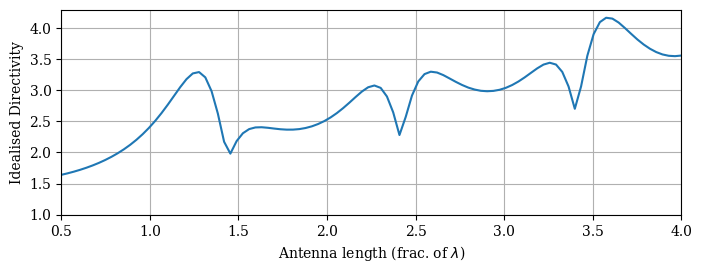
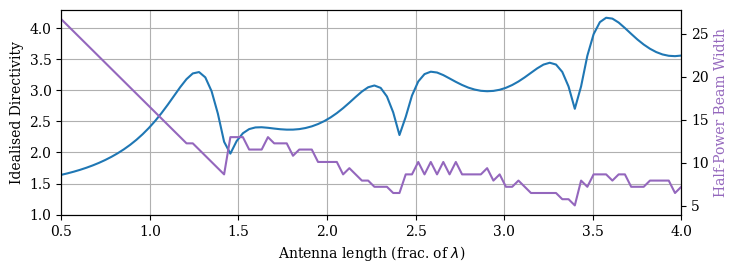
n

diff --git a/5th Year/PHYS3051/Lab Reports/Antenna/Analysis.py b/5th Year/PHYS3051/Lab Reports/Antenna/Analysis.py
@@ -267,6 +267,7 @@ fig.savefig("predictionMap.png", bbox_inches='tight')
 
 test_lengths = np.linspace(wavelen / 2, 4 * wavelen, 100)
 test_directs = np.zeros(len(test_lengths))
+test_HPBW = np.zeros(len(test_lengths))
 for j, length in enumerate(test_lengths):
     pred = np.zeros(len(test_angles))
     for i, angle in enumerate(test_angles):
@@ -276,11 +277,33 @@ for j, length in enumerate(test_lengths):
     pred = abs(pred)
     
     test_directs[j] = one_directivity(pred / max(pred), test_angles)
+    
+    pred_a = 20 * np.log(pred)
+    max_val = max(pred_a)
+    max_ind = np.argwhere(pred_a == max_val)[0][0]
+    
+    try:
+        a = 0
+        currval = max_val
+        while currval >= max_val - 3:
+            currval = pred_a[max_ind + a]
+            a += 1
+    except IndexError:
+        a = 0
+        currval = max_val
+        while currval >= max_val - 3:
+            currval = pred_a[max_ind + a - 1]
+            a += -1
+    
+    test_HPBW[j] = abs(test_angles[max_ind] - test_angles[max_ind + a])
 
 fig, ax = plt.subplots(figsize=(fs, fs/3))
+ax2 = ax.twinx()
 ax.plot(test_lengths / wavelen, test_directs)
 ax.set_xlabel(r"Antenna length (frac. of $\lambda$)")
 ax.set_ylabel(r"Idealised Directivity")
+ax2.plot(test_lengths / wavelen, test_HPBW * 180 / np.pi, c='tab:purple')
+ax2.set_ylabel(r"Half-Power Beam Width", color='tab:purple')
 ax.grid()
 ax.set_ylim(ymin=1)
 ax.set_xlim(0.5, 4)
